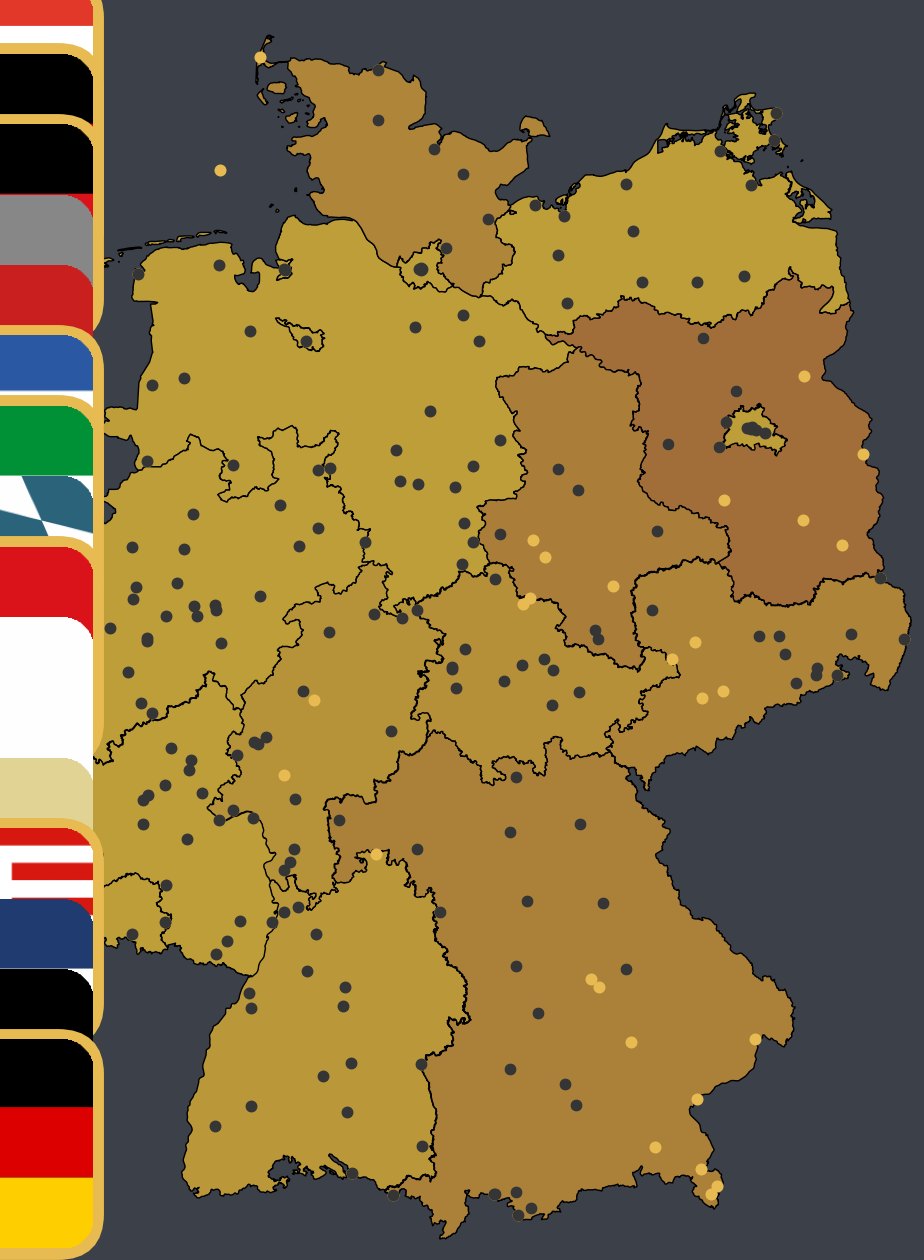
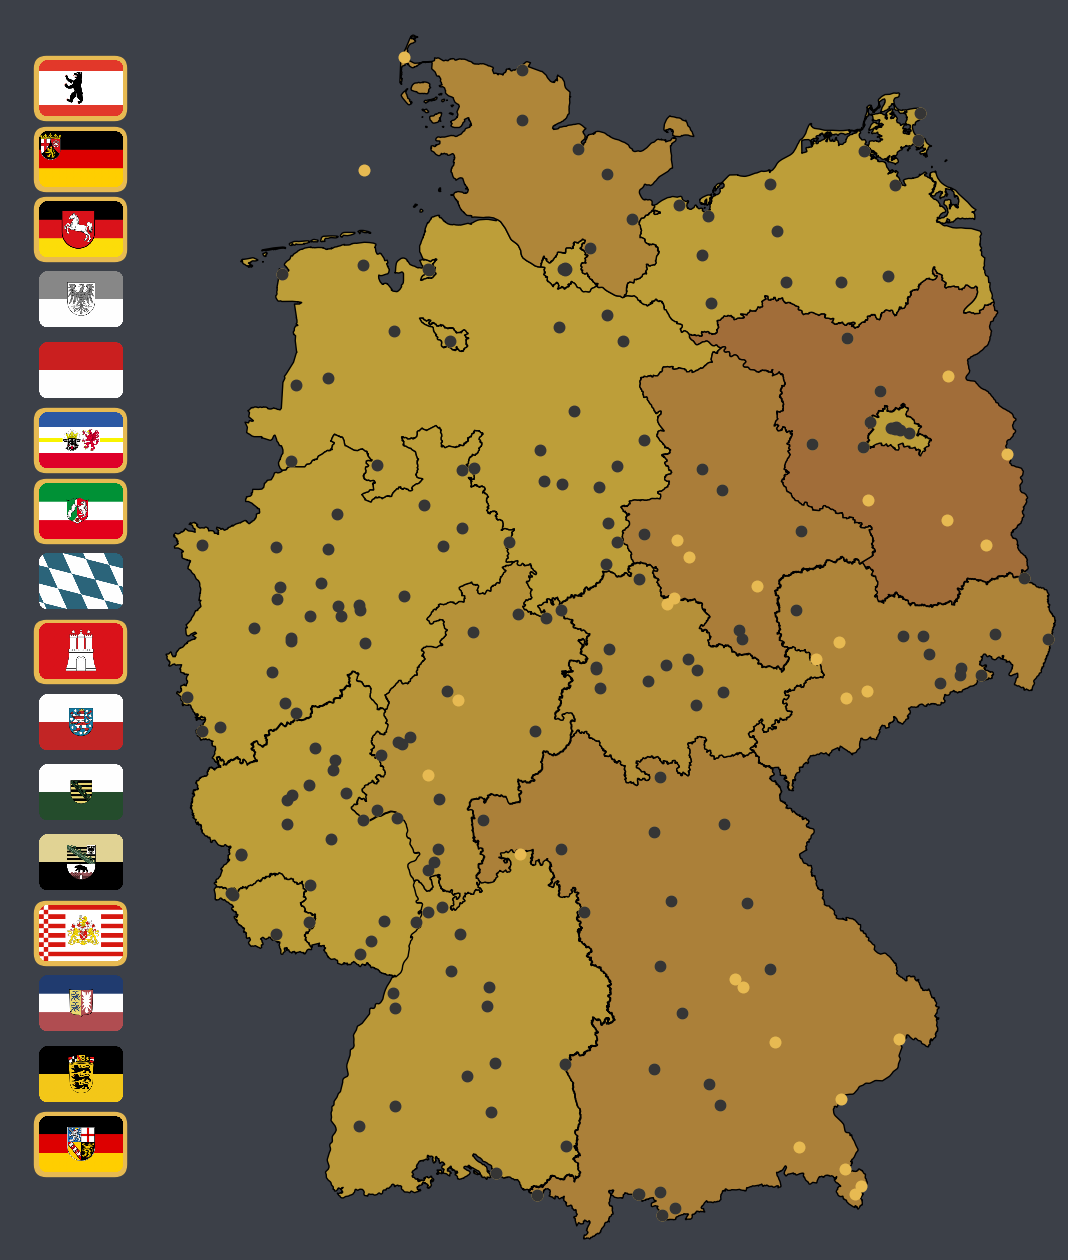
update the small map

diff --git a/plotting/plotting_manager.py b/plotting/plotting_manager.py
@@ -143,7 +143,7 @@ class PlotManager:
             img_position = (-0.075, 0.94 - i/len(png_files)*0.9)
 
             imagebox_gry = AnnotationBbox(
-                OffsetImage(gray_rgba, zoom=0.75), 
+                OffsetImage(gray_rgba, zoom=0.2), 
                 img_position, 
                 frameon=False, 
                 xycoords='axes fraction'
@@ -151,15 +151,18 @@ class PlotManager:
             ax.add_artist(imagebox_gry)
 
             imagebox_img = AnnotationBbox(
-                OffsetImage(img, zoom=0.75), 
+                #OffsetImage(img, zoom=0.75), 
+                OffsetImage(img, zoom=0.2), 
                 img_position, 
                 frameon=frameon, 
                 xycoords='axes fraction',
                 pad=0.1,                     # space between image and border
                 bboxprops=dict(
                     edgecolor='#e7ba52',     # border color
-                    linewidth=10,             # border thickness
-                    boxstyle="round,pad=0.3,rounding_size=2.75",  # rounded corners
+                    #linewidth=10,             # border thickness
+                    linewidth=1,             # border thickness
+                    #boxstyle="round,pad=0.3,rounding_size=2.75",  # rounded corners
+                    boxstyle="round,pad=0.3,rounding_size=0.85",  # rounded corners
                     facecolor='#e7ba52',       # background behind image
                     alpha=1.0                # border opacity
                 )
